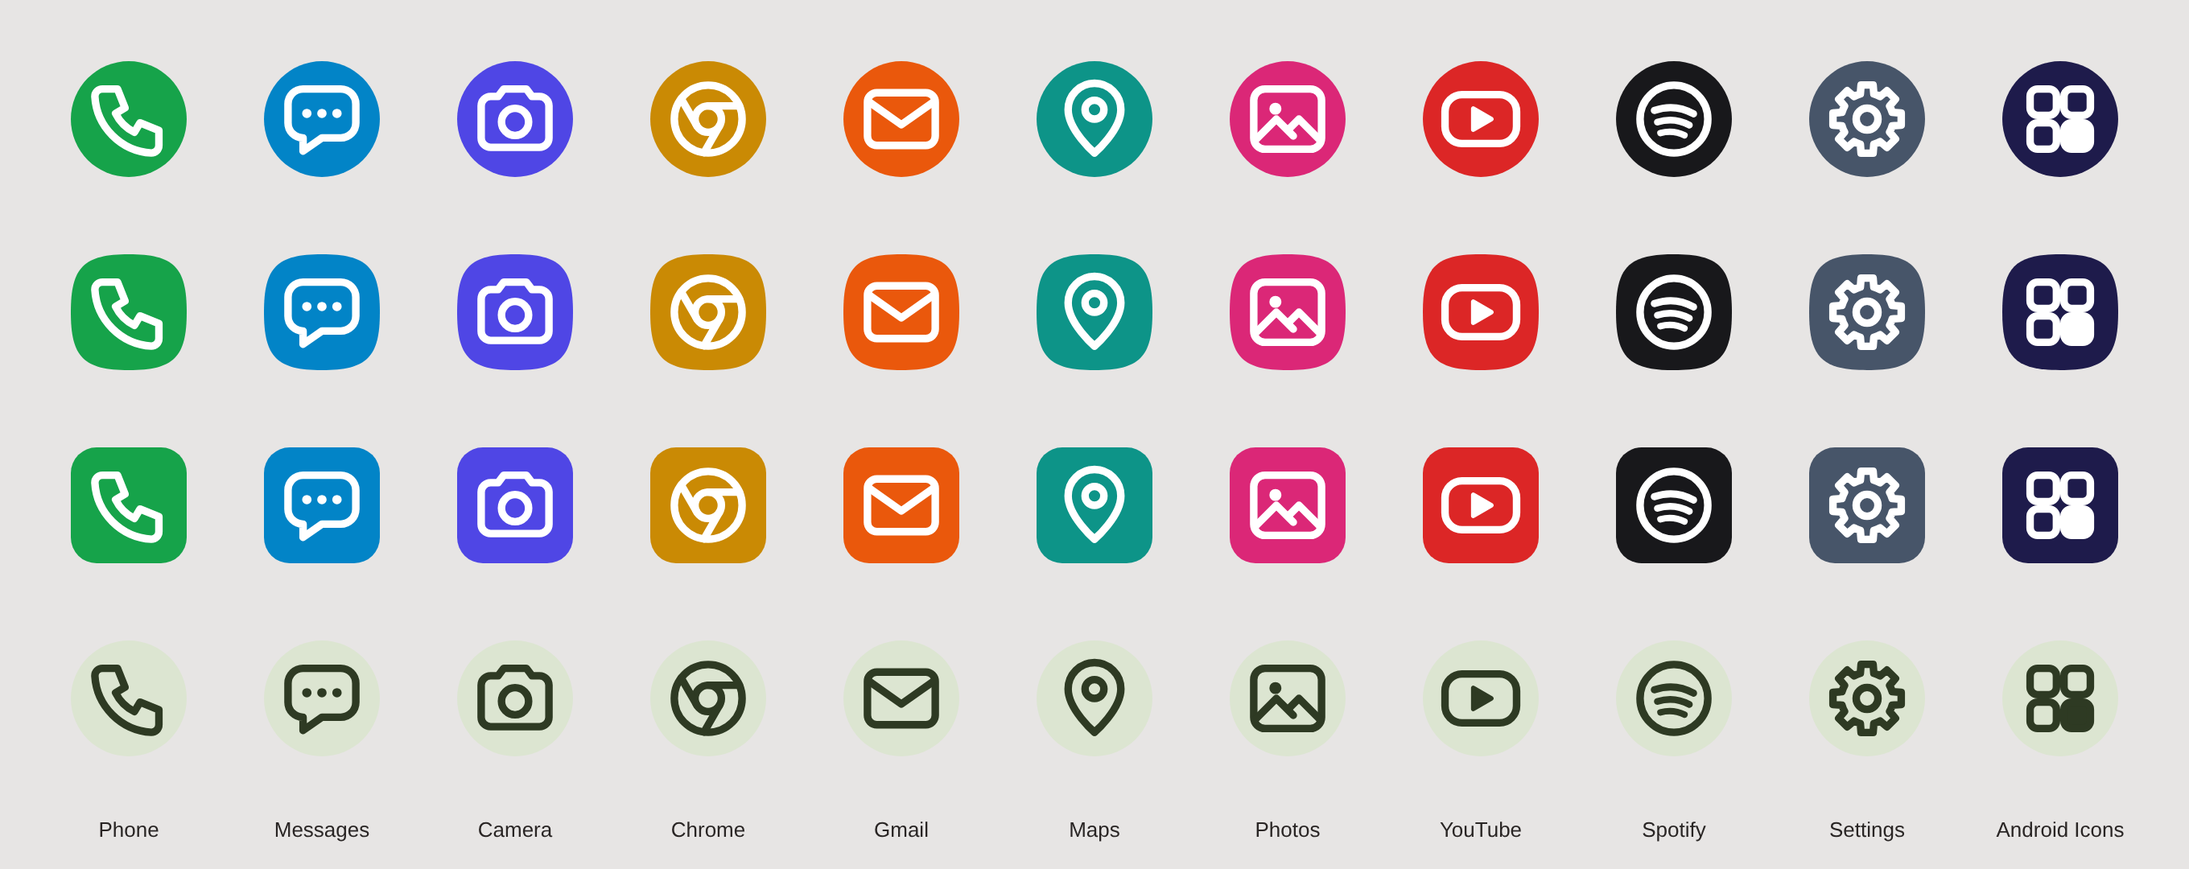
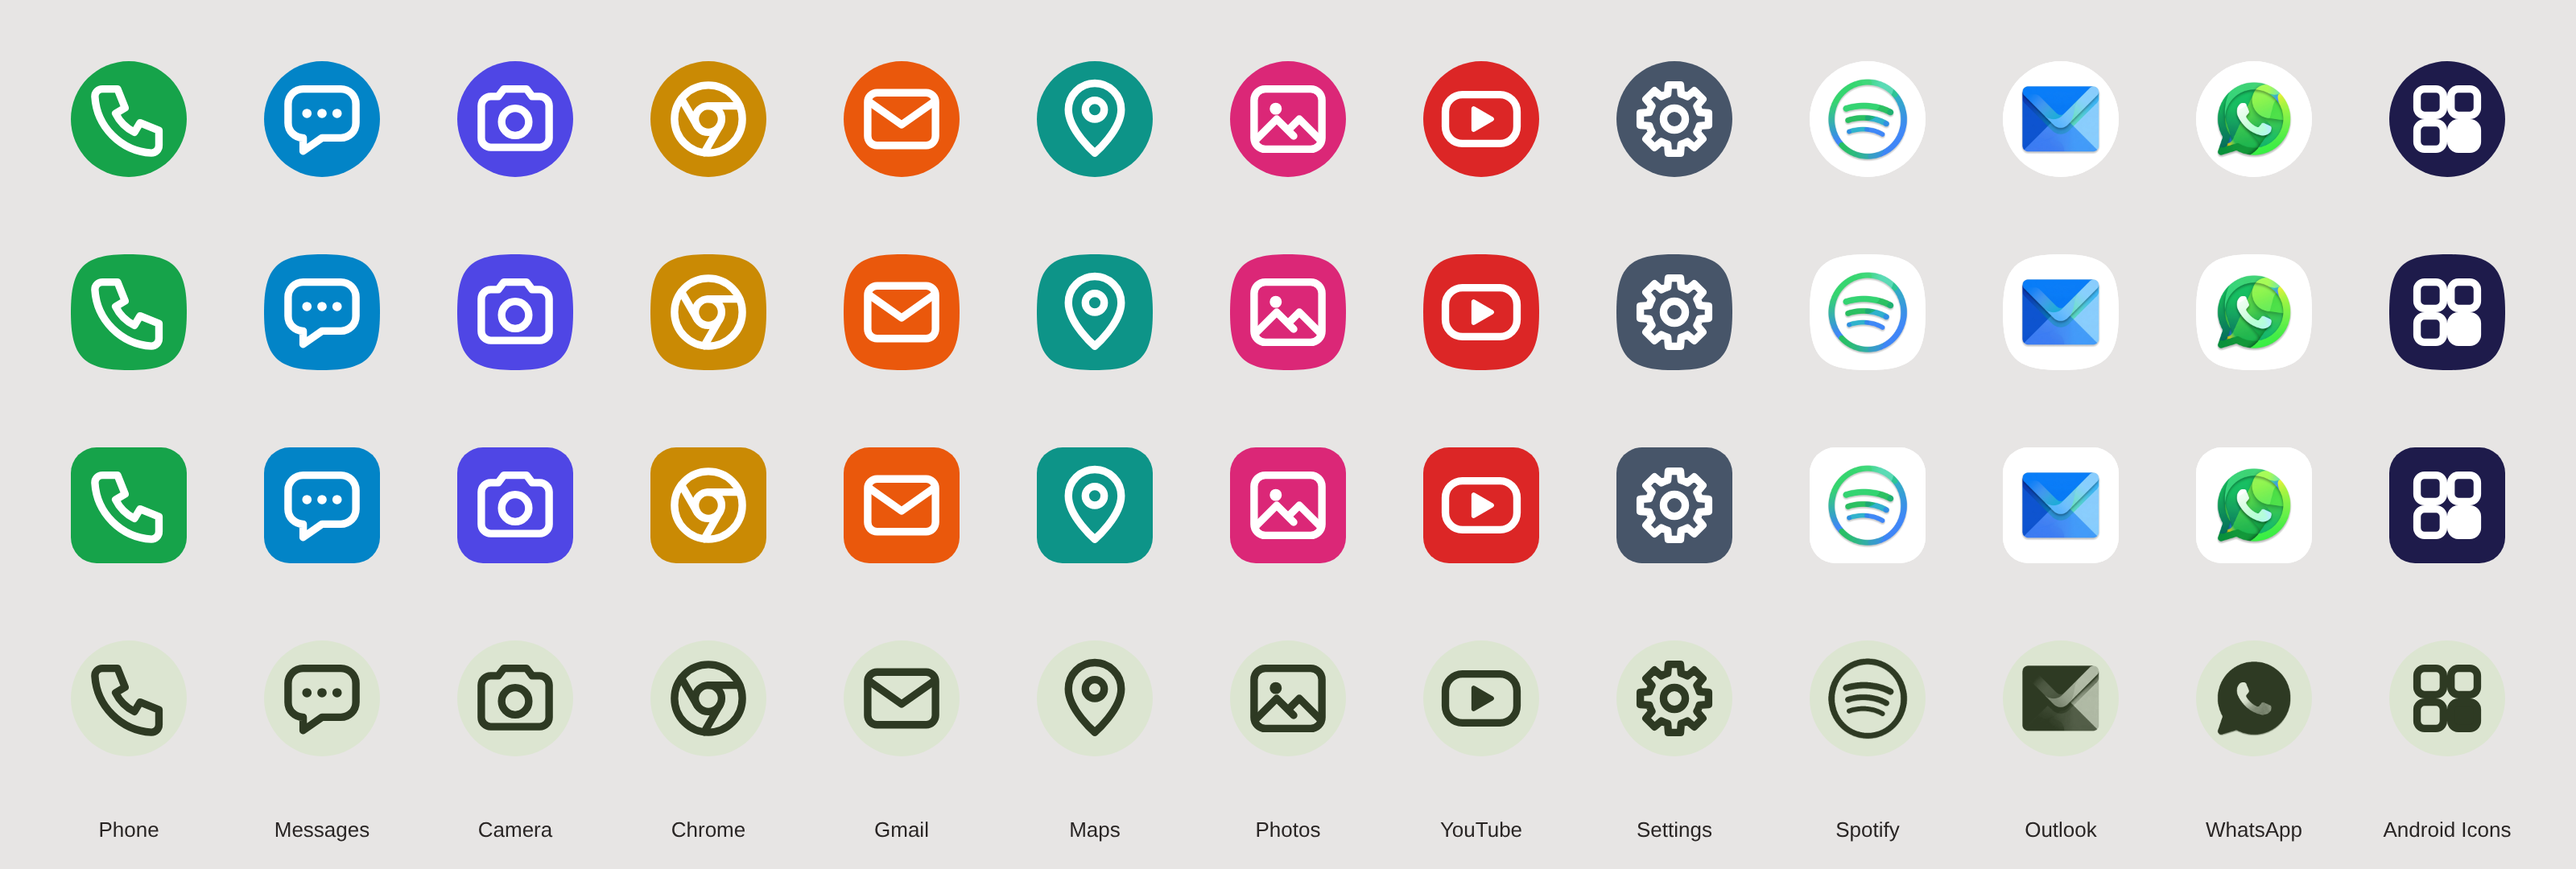
Use supplied artwork for Spotify, add Outlook and WhatsApp
Spotify now uses the provided artwork instead of the drawn glyph, and
Outlook and WhatsApp are new icons from artwork. tools/import_art.py
centres and scales an image into adaptive icon layers (foreground,
background colour and a themed-icon monochrome layer); import_all.sh
lists every artwork icon and runs in CI before the build, so new art
can be added from the GitHub web editor.

App mappings were checked against Lawnicons' appfilter (component
names only, no icons): added Outlook, WhatsApp and Spotify launcher
variants plus newer Google and Samsung Messages activities, and
dropped a stale YouTube activity.

Claude-Session: https://claude.ai/code/session_01CrnvAPVpxdgTZsDgvfCyUo

diff --git a/tools/import_art.py b/tools/import_art.py
@@ -1,0 +1,116 @@
+#!/usr/bin/env python3
+"""Turn a square-ish artwork image into an adaptive icon for the pack.
+
+    python3 tools/import_art.py art/spotify.jpg spotify
+    python3 tools/import_art.py art/outlook.jpg outlook --size 30 --mono shade
+
+Writes:
+    app/src/main/res/drawable-nodpi/<name>_fg.png    artwork, centred and scaled
+    app/src/main/res/drawable-nodpi/<name>_mono.png  single-colour version for themed icons
+    app/src/main/res/drawable/<name>.xml             adaptive icon tying them together
+
+The artwork's own background colour (sampled from the corners) becomes the
+icon background, so art drawn on white gives a white icon. --size is the
+radius of the artwork in adaptive-icon units (the visible icon is 72 units
+across, the circle mask has radius 36); 26 suits most art.
+
+Needs Pillow: pip install pillow
+"""
+import argparse
+import os
+import sys
+
+from PIL import Image, ImageChops, ImageFilter
+
+ROOT = os.path.dirname(os.path.dirname(os.path.abspath(__file__)))
+RES = os.path.join(ROOT, "app", "src", "main", "res")
+CANVAS = 648            # px for the 108-unit adaptive canvas (6 px per unit)
+PX_PER_UNIT = CANVAS / 108
+
+
+def ink(img, bg):
+    """0-255 'how far from the background colour' per pixel."""
+    diff = ImageChops.difference(img, Image.new("RGB", img.size, bg))
+    r, g, b = diff.split()
+    return ImageChops.lighter(ImageChops.lighter(r, g), b)
+
+
+def main():
+    ap = argparse.ArgumentParser()
+    ap.add_argument("image")
+    ap.add_argument("name", help="lowercase resource name, e.g. spotify")
+    ap.add_argument("--size", type=float, default=26, help="artwork radius in units (default 26)")
+    ap.add_argument("--mono", choices=["ink", "shade"], default="ink",
+                    help="how to build the themed-icon layer (default ink)")
+    args = ap.parse_args()
+
+    src = Image.open(args.image).convert("RGB")
+    w, h = src.size
+
+    # Background = median of the four corner patches.
+    patch = max(4, min(w, h) // 40)
+    corners = [src.crop(box) for box in ((0, 0, patch, patch), (w - patch, 0, w, patch),
+                                         (0, h - patch, patch, h), (w - patch, h - patch, w, h))]
+    px = sorted(p for c in corners for p in getattr(c, "get_flattened_data", c.getdata)())
+    bg = px[len(px) // 2]
+
+    # Clean faint background noise (JPEG artefacts, smudges) back to the flat colour.
+    d = ink(src, bg)
+    noise = d.point(lambda v: 255 if v < 14 else 0)
+    src = Image.composite(Image.new("RGB", src.size, bg), src, noise)
+
+    # Find the artwork (ignores soft drop shadows), its centre and its true radius.
+    mask = ink(src, bg).point(lambda v: 255 if v > 60 else 0).filter(ImageFilter.MinFilter(3))
+    bbox = mask.getbbox()
+    if not bbox:
+        sys.exit("Couldn't find any artwork in the image.")
+    cx, cy = (bbox[0] + bbox[2]) / 2, (bbox[1] + bbox[3]) / 2
+    small = mask.resize((w // 8, h // 8))
+    radius = 0
+    for y in range(small.height):
+        for x in range(small.width):
+            if small.getpixel((x, y)):
+                dx, dy = (x + 0.5) * 8 - cx, (y + 0.5) * 8 - cy
+                radius = max(radius, (dx * dx + dy * dy) ** 0.5)
+
+    scale = args.size * PX_PER_UNIT / radius
+    art = src.resize((round(w * scale), round(h * scale)), Image.LANCZOS)
+    fg = Image.new("RGB", (CANVAS, CANVAS), bg)
+    fg.paste(art, (round(CANVAS / 2 - cx * scale), round(CANVAS / 2 - cy * scale)))
+
+    # Monochrome (Android themed icons).
+    #   ink:   anything clearly not background is solid. Good for outline/line art.
+    #   shade: darker parts are solid, lighter parts fade out. Good for filled
+    #          shapes, where "ink" would give a featureless blob.
+    solid = ink(fg, bg).point(lambda v: max(0, min(255, (v - 40) * 255 // 60)))
+    if args.mono == "shade":
+        lum = fg.convert("L")
+        dark = lum.point(lambda v: max(0, min(255, (215 - v) * 255 // 95)))
+        a = ImageChops.multiply(solid, dark)
+    else:
+        a = solid
+    mono = Image.new("RGBA", (CANVAS, CANVAS), (255, 255, 255, 0))
+    mono.putalpha(a)
+
+    nodpi = os.path.join(RES, "drawable-nodpi")
+    os.makedirs(nodpi, exist_ok=True)
+    fg.save(os.path.join(nodpi, f"{args.name}_fg.png"), optimize=True)
+    mono.save(os.path.join(nodpi, f"{args.name}_mono.png"), optimize=True)
+
+    color = "#{:02X}{:02X}{:02X}".format(*bg)
+    with open(os.path.join(RES, "drawable", f"{args.name}.xml"), "w") as fh:
+        fh.write(f"""<?xml version="1.0" encoding="utf-8"?>
+<!-- Generated by tools/import_art.py from {os.path.relpath(args.image, ROOT)} -->
+<adaptive-icon xmlns:android="http://schemas.android.com/apk/res/android">
+    <background>
+        <color android:color="{color}" />
+    </background>
+    <foreground android:drawable="@drawable/{args.name}_fg" />
+    <monochrome android:drawable="@drawable/{args.name}_mono" />
+</adaptive-icon>
+""")
+    print(f"{args.name}: background {color}, artwork radius {radius:.0f}px -> {args.size} units")
+
+
+if __name__ == "__main__":
+    main()

diff --git a/README.md b/README.md
@@ -22,7 +22,9 @@ Open the Android Icons app to see which icons match an app on your phone (✓ me
 
 ## Included icons
 
-Phone, Messages, Camera, Chrome, Gmail, Maps, Photos, YouTube, Spotify, Settings.
+Phone, Messages, Camera, Chrome, Gmail, Outlook, Maps, Photos, YouTube, Settings, Spotify, WhatsApp.
+
+Spotify, Outlook and WhatsApp come from artwork in `art/`. The rest are vector glyphs.
 
 `appfilter.xml` covers the Google, Samsung and stock Android versions of Phone, Messages and Camera. If an icon shows "No matching app found" in the app, your phone uses a different component name. You can still pick that icon manually, or add the right line (see below).
 
@@ -39,14 +41,14 @@ All of it lives in `app/src/main/res/`:
 
 **To add an icon:**
 
-1. Copy an existing pair, for example `spotify.xml` and `spotify_glyph.xml`, and rename both (lowercase letters, numbers and underscores only).
+1. Copy an existing pair, for example `youtube.xml` and `youtube_glyph.xml`, and rename both (lowercase letters, numbers and underscores only).
 2. Change the background colour in `<name>.xml`. For the glyph, either edit the path, or in Android Studio use File › New › Vector Asset to import an SVG and point the icon's `foreground` at it.
 3. Add `<item drawable="<name>" name="Label" />` to `xml/drawable.xml`.
 4. In the Android Icons app, scroll to **Installed apps** and tap the app you want. That copies its `appfilter.xml` line. Paste it into `xml/appfilter.xml` and set `drawable` to your icon's name.
 
-**Using PNG artwork instead of vectors:** drop a square PNG (512×512 is plenty) into `res/drawable-nodpi/<name>.png` and do steps 3 and 4. Lawnchair shows a PNG exactly as drawn, so it won't follow your icon shape setting. For that, use the PNG as the `foreground` of an adaptive icon. Keep the important part inside the middle 61% of the image, because the edges get cropped by the shape mask.
+**From artwork (PNG or JPG):** put the image in `art/`, add a line for it to `tools/import_all.sh` and run that script (needs Python with Pillow: `pip install pillow`). It centres and sizes the artwork, uses the image's background colour as the icon background, and makes the themed-icon version. Then do steps 3 and 4. Art on a plain background with some empty space around it works best. Change `--size` on that line if an icon looks too big or too small next to the others.
 
-You can do all of this in the GitHub web editor from your phone. Commit, wait for the build to finish (about 3 minutes), then install the new release.
+You can do all of this in the GitHub web editor from your phone, including artwork: GitHub runs `tools/import_all.sh` before every build, so you only need to upload the image and edit the text files. Commit, wait for the build to finish (about 3 minutes), then install the new release.
 
 ## Build locally
 
